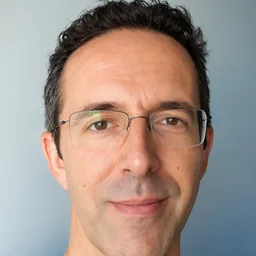
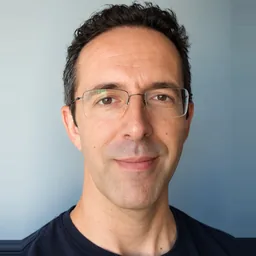
TechDays 2005: real session title; photo cropped to head and shoulders
- techdays05 now has its actual title and session code (WEB04), taken
  from the speaker's own deck: "Hacked! Como são atacadas as aplicações
  Web, e como devemos usar a .NET Framework para as proteger", with
  summaries in EN and pt-PT. The deck itself is not committed.
- assets/rui.webp: wider head-and-shoulders crop (option C), re-encoded
  with no metadata; its cache-busting hash changes with it.

diff --git a/pt/index.html b/pt/index.html
@@ -43,7 +43,7 @@
 </header>
 <main id="main">
 <section class="intro wrap">
-  <div class="intro-head"><img class="avatar" src="../assets/rui.webp?v=4badbb9ec5" width="72" height="72" alt="Rui Quintino"><h1 class="intro-title">Palestras</h1></div>
+  <div class="intro-head"><img class="avatar" src="../assets/rui.webp?v=7322fbe3c5" width="72" height="72" alt="Rui Quintino"><h1 class="intro-title">Palestras</h1></div>
   <p class="intro-tagline"><span class="about-label">Sobre mim</span> Formador em Agentic SDLC + agentes de IA | Dr Claude Mr Copilot | Product Engineer | Autor e orador</p>
   <p class="intro-stats mono">37 sessões · 2005 → 2026 · 33 eventos e comunidades</p>
 </section>
@@ -564,13 +564,13 @@
       
     </div>
   </li>
-        <li class="card" data-item data-id="techdays05" data-date="2005-11" data-era="early" data-format="Talk" data-tags="Security" data-has="" data-text="techdays05 security session (title to confirm) microsoft techdays 2005 lisbon lisboa centro de congressos de lisboa talk pt a live web/http hacking demo, voted best session of microsoft techdays 2005. security sessao de seguranca (titulo a confirmar) uma demonstracao ao vivo de hacking web/http, eleita a melhor sessao do microsoft techdays 2005. palestra seguranca">
-    <div class="cover tone-early" aria-hidden="true"><span class="cover-top"><span>Palestra</span><span class="badge">Primeira palestra</span></span><span class="cover-title">Onde tudo começou</span></div>
+        <li class="card" data-item data-id="techdays05" data-date="2005-11" data-era="early" data-format="Talk" data-tags="Security" data-has="" data-text="techdays05 hacked! como sao atacadas as aplicacoes web, e como devemos usar a .net framework para as proteger microsoft techdays 2005 lisbon lisboa centro de congressos de lisboa talk pt session web04, in portuguese: why application security matters as much as server and network security, the most common attacks on web applications, and how to use the .net framework to protect against them. voted best session of microsoft techdays 2005. security hacked! como sao atacadas as aplicacoes web, e como devemos usar a .net framework para as proteger sessao web04: porque e que a seguranca aplicacional importa tanto como a de servidores e de rede, os ataques mais comuns as aplicacoes web e como usar a .net framework para as proteger. eleita a melhor sessao do microsoft techdays 2005. palestra seguranca">
+    <div class="cover tone-early" aria-hidden="true"><span class="cover-top"><span>Palestra</span><span class="badge">Primeira palestra</span></span><span class="cover-title">Hacked!</span></div>
     <div class="card-body">
       <p class="meta mono"><span class="meta-fmt">Palestra<span class="badge-txt"> · Primeira palestra</span> · </span>nov 2005 · Lisboa · <span class="unverified" title="Detalhes ainda por confirmar">a confirmar</span></p>
-      <h3 class="card-title">Sessão de segurança (título a confirmar)</h3>
+      <h3 class="card-title">Hacked! Como são atacadas as aplicações Web, e como devemos usar a .NET Framework para as proteger</h3>
       <p class="card-event">Microsoft TechDays 2005</p>
-      <p class="card-sum">Uma demonstração ao vivo de hacking web/HTTP, eleita a melhor sessão do Microsoft TechDays 2005.</p>
+      <p class="card-sum">Sessão WEB04: porque é que a segurança aplicacional importa tanto como a de servidores e de rede, os ataques mais comuns às aplicações Web e como usar a .NET Framework para as proteger. Eleita a melhor sessão do Microsoft TechDays 2005.</p>
       <div class="tags"><span class="tag" data-tag="Security">Segurança</span></div>
       <div class="links"></div>
       
@@ -791,9 +791,9 @@
     </li>
     </ol></section>
         <section class="year" data-year="2005"><h3 class="year-label">2005</h3><ol class="rows">
-      <li class="row" data-item data-id="techdays05" data-date="2005-11" data-era="early" data-format="Talk" data-tags="Security" data-has="" data-text="techdays05 security session (title to confirm) microsoft techdays 2005 lisbon lisboa centro de congressos de lisboa talk pt a live web/http hacking demo, voted best session of microsoft techdays 2005. security sessao de seguranca (titulo a confirmar) uma demonstracao ao vivo de hacking web/http, eleita a melhor sessao do microsoft techdays 2005. palestra seguranca">
+      <li class="row" data-item data-id="techdays05" data-date="2005-11" data-era="early" data-format="Talk" data-tags="Security" data-has="" data-text="techdays05 hacked! como sao atacadas as aplicacoes web, e como devemos usar a .net framework para as proteger microsoft techdays 2005 lisbon lisboa centro de congressos de lisboa talk pt session web04, in portuguese: why application security matters as much as server and network security, the most common attacks on web applications, and how to use the .net framework to protect against them. voted best session of microsoft techdays 2005. security hacked! como sao atacadas as aplicacoes web, e como devemos usar a .net framework para as proteger sessao web04: porque e que a seguranca aplicacional importa tanto como a de servidores e de rede, os ataques mais comuns as aplicacoes web e como usar a .net framework para as proteger. eleita a melhor sessao do microsoft techdays 2005. palestra seguranca">
       <span class="row-date mono">nov</span>
-      <div class="row-main"><span class="row-title">Sessão de segurança (título a confirmar)</span><span class="row-sub">Microsoft TechDays 2005 · Lisboa · Palestra · <span class="unverified">a confirmar</span></span></div>
+      <div class="row-main"><span class="row-title">Hacked! Como são atacadas as aplicações Web, e como devemos usar a .NET Framework para as proteger</span><span class="row-sub">Microsoft TechDays 2005 · Lisboa · Palestra · <span class="unverified">a confirmar</span></span></div>
       <div class="row-links"></div>
     </li>
     </ol></section>

diff --git a/index.html b/index.html
@@ -43,7 +43,7 @@
 </header>
 <main id="main">
 <section class="intro wrap">
-  <div class="intro-head"><img class="avatar" src="./assets/rui.webp?v=4badbb9ec5" width="72" height="72" alt="Rui Quintino"><h1 class="intro-title">Talks</h1></div>
+  <div class="intro-head"><img class="avatar" src="./assets/rui.webp?v=7322fbe3c5" width="72" height="72" alt="Rui Quintino"><h1 class="intro-title">Talks</h1></div>
   <p class="intro-tagline"><span class="about-label">About me</span> Agentic SDLC + AI Agents Trainer | Dr Claude Mr Copilot | Product Engineer | Author &amp; Speaker</p>
   <p class="intro-stats mono">37 sessions · 2005 → 2026 · 33 events and communities</p>
 </section>
@@ -564,13 +564,13 @@
       
     </div>
   </li>
-        <li class="card" data-item data-id="techdays05" data-date="2005-11" data-era="early" data-format="Talk" data-tags="Security" data-has="" data-text="techdays05 security session (title to confirm) microsoft techdays 2005 lisbon lisboa centro de congressos de lisboa talk pt a live web/http hacking demo, voted best session of microsoft techdays 2005. security sessao de seguranca (titulo a confirmar) uma demonstracao ao vivo de hacking web/http, eleita a melhor sessao do microsoft techdays 2005. talk security">
-    <div class="cover tone-early" aria-hidden="true"><span class="cover-top"><span>Talk · Portuguese</span><span class="badge">First talk</span></span><span class="cover-title">Where it started</span></div>
+        <li class="card" data-item data-id="techdays05" data-date="2005-11" data-era="early" data-format="Talk" data-tags="Security" data-has="" data-text="techdays05 hacked! como sao atacadas as aplicacoes web, e como devemos usar a .net framework para as proteger microsoft techdays 2005 lisbon lisboa centro de congressos de lisboa talk pt session web04, in portuguese: why application security matters as much as server and network security, the most common attacks on web applications, and how to use the .net framework to protect against them. voted best session of microsoft techdays 2005. security hacked! como sao atacadas as aplicacoes web, e como devemos usar a .net framework para as proteger sessao web04: porque e que a seguranca aplicacional importa tanto como a de servidores e de rede, os ataques mais comuns as aplicacoes web e como usar a .net framework para as proteger. eleita a melhor sessao do microsoft techdays 2005. talk security">
+    <div class="cover tone-early" aria-hidden="true"><span class="cover-top"><span>Talk · Portuguese</span><span class="badge">First talk</span></span><span class="cover-title">Hacked!</span></div>
     <div class="card-body">
       <p class="meta mono"><span class="meta-fmt">Talk · Portuguese<span class="badge-txt"> · First talk</span> · </span>Nov 2005 · Lisbon · <span class="unverified" title="Details still to be confirmed">to confirm</span></p>
-      <h3 class="card-title">Security session (title to confirm)</h3>
+      <h3 class="card-title">Hacked! Como são atacadas as aplicações Web, e como devemos usar a .NET Framework para as proteger</h3>
       <p class="card-event">Microsoft TechDays 2005</p>
-      <p class="card-sum">A live web/HTTP hacking demo, voted best session of Microsoft TechDays 2005.</p>
+      <p class="card-sum">Session WEB04, in Portuguese: why application security matters as much as server and network security, the most common attacks on web applications, and how to use the .NET Framework to protect against them. Voted best session of Microsoft TechDays 2005.</p>
       <div class="tags"><span class="tag" data-tag="Security">Security</span></div>
       <div class="links"></div>
       
@@ -791,9 +791,9 @@
     </li>
     </ol></section>
         <section class="year" data-year="2005"><h3 class="year-label">2005</h3><ol class="rows">
-      <li class="row" data-item data-id="techdays05" data-date="2005-11" data-era="early" data-format="Talk" data-tags="Security" data-has="" data-text="techdays05 security session (title to confirm) microsoft techdays 2005 lisbon lisboa centro de congressos de lisboa talk pt a live web/http hacking demo, voted best session of microsoft techdays 2005. security sessao de seguranca (titulo a confirmar) uma demonstracao ao vivo de hacking web/http, eleita a melhor sessao do microsoft techdays 2005. talk security">
+      <li class="row" data-item data-id="techdays05" data-date="2005-11" data-era="early" data-format="Talk" data-tags="Security" data-has="" data-text="techdays05 hacked! como sao atacadas as aplicacoes web, e como devemos usar a .net framework para as proteger microsoft techdays 2005 lisbon lisboa centro de congressos de lisboa talk pt session web04, in portuguese: why application security matters as much as server and network security, the most common attacks on web applications, and how to use the .net framework to protect against them. voted best session of microsoft techdays 2005. security hacked! como sao atacadas as aplicacoes web, e como devemos usar a .net framework para as proteger sessao web04: porque e que a seguranca aplicacional importa tanto como a de servidores e de rede, os ataques mais comuns as aplicacoes web e como usar a .net framework para as proteger. eleita a melhor sessao do microsoft techdays 2005. talk security">
       <span class="row-date mono">Nov</span>
-      <div class="row-main"><span class="row-title">Security session (title to confirm)</span><span class="row-sub">Microsoft TechDays 2005 · Lisbon · Talk · <span class="unverified">to confirm</span></span></div>
+      <div class="row-main"><span class="row-title">Hacked! Como são atacadas as aplicações Web, e como devemos usar a .NET Framework para as proteger</span><span class="row-sub">Microsoft TechDays 2005 · Lisbon · Talk · <span class="unverified">to confirm</span></span></div>
       <div class="row-links"></div>
     </li>
     </ol></section>
